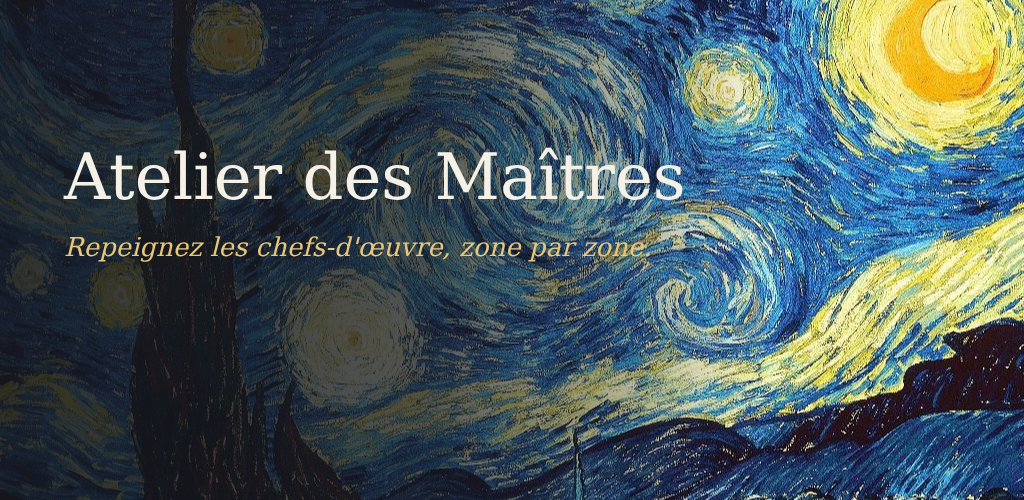
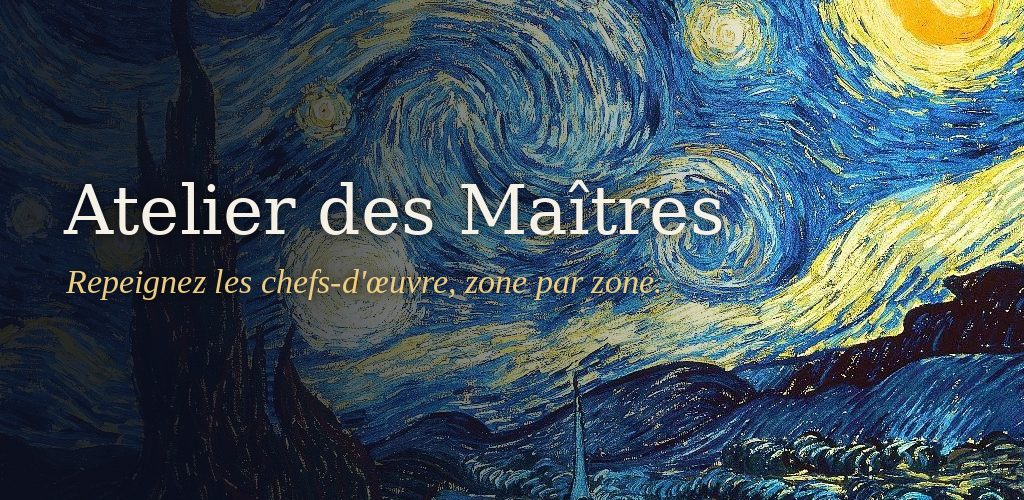
Fiche et confidentialité en anglais, image de présentation lisible, GitHub Pages
Claude-Session: https://claude.ai/code/session_01QxB6E3ConKmdP6yFCeSeQK

diff --git a/docs/audit-publication.md b/docs/audit-publication.md
@@ -35,14 +35,29 @@ Les manques relevaient surtout de la finition : pas de partage de la toile (la f
 3. **Test fermé** : un compte personnel récent doit faire tester l'application par au moins 12 personnes pendant 14 jours avant la production. Pendant ce test, consulter le *rapport de pré-lancement* de la Play Console (Google y lance l'application sur de vrais appareils et signale plantages et défauts d'accessibilité).
 4. **Fichier de désobscurcissement** : à chaque `.aab` déposé, déposer aussi le `mapping.txt` de la même Release.
 5. **Signature** : l'application du Play Store sera re-signée par Google, celle des Releases GitHub par votre clé d'envoi. On ne peut pas passer de l'une à l'autre sans désinstaller (et donc perdre sa progression) : une fois sur le store, orienter les testeurs vers le store uniquement.
+6. **GitHub Pages** : Settings › Pages › *Deploy from a branch*, branche `main`, dossier `/docs`. Les politiques de confidentialité sont alors publiées à `https://loucoumepixel.github.io/atelier-des-maitres/confidentialite.html` et `privacy.html`, les adresses à donner à la Play Console.
+7. **Fiche en anglais** : dans la Play Console, ajouter la traduction anglaise de la fiche avec le texte de [fiche.md](play-store/fiche.md#english) et l'image de présentation anglaise.
 
-## Recommandations suivantes (non faites, à décider)
+## Recommandations mises en œuvre (deuxième passe)
 
-Par ordre d'impact estimé :
+| Recommandation | Fait |
+|---|---|
+| Version anglaise | Tous les textes de l'application sont dans les ressources Android : anglais par défaut, français pour les téléphones en français, langue choisissable par application sous Android 13+. Titres, dates et cartels des toiles traduits. Fiche du store et politique de confidentialité en anglais ([fiche.md](play-store/fiche.md#english), [privacy.md](privacy.md)). |
+| Bibliothèques à jour | Kotlin 2.2.21, Compose BOM 2025.06.01, activity 1.10.1, lifecycle 2.9.1, core-ktx 1.16.0, coroutines 1.10.2 ; validé par le build GitHub. |
+| Profil de démarrage | `profileinstaller` et `baseline-prof.txt` : le code de l'application est compilé à l'installation, y compris pour l'APK des Releases. |
+| Image de présentation | Refaite avec un dégradé sombre et une ombre sous le texte, en français et en anglais. |
+| Confidentialité sur GitHub Pages | Site prêt dans `docs/` ; il ne reste qu'à activer GitHub Pages (voir ci-dessous). |
+| Plus de toiles | **Bloqué ici** : l'environnement de travail n'a pas accès aux musées ni à Wikimedia Commons pour télécharger les reproductions. Voir ci-dessous. |
 
-1. **Version anglaise.** Aujourd'hui tout le texte est en français, écrit directement dans le code. Externaliser les textes et ajouter l'anglais (application et fiche) multiplierait l'audience potentielle ; c'est le plus gros levier de diffusion.
-2. **Plus de toiles.** Sept œuvres, c'est peu face à la concurrence. Le domaine public offre Monet, Vermeer, Klimt, Hokusai (autres vues du Fuji), Seurat, Cézanne… Chaque toile ajoute environ 300 Ko à l'application.
-3. **Mettre à jour les bibliothèques** (Compose de décembre 2024, Kotlin 2.0) : corrections de performance et de stabilité ; à faire sur une branche dédiée, le build GitHub validant la mise à jour.
-4. **Profil de démarrage** (*baseline profile*) : démarrage et défilement plus fluides au premier lancement, mesurables dans Android vitals.
-5. **Image de présentation** : le sous-titre ocre se lit mal sur le ciel tourmenté de la Nuit étoilée ; un bandeau sombre ou un texte plus clair le rendrait lisible en vignette.
-6. **Politique de confidentialité sur GitHub Pages** plutôt que sur la page du dépôt : même contenu, présentation plus propre pour les utilisateurs qui l'ouvrent.
+## Nouvelles toiles proposées
+
+Toutes dans le domaine public, choisies pour leurs aplats lisibles en zones et leur notoriété :
+
+- Claude Monet, *Impression, soleil levant* (1872)
+- Claude Monet, *Les Coquelicots* (1873)
+- Johannes Vermeer, *La Jeune Fille à la perle* (vers 1665)
+- Gustav Klimt, *Le Baiser* (1908)
+- Georges Seurat, *Un dimanche après-midi à l'Île de la Grande Jatte* (1884-1886)
+- Katsushika Hokusai, *Le Fuji rouge* (vers 1831)
+
+Il suffit de déposer les reproductions (JPEG, 1600 px environ sur le grand côté, depuis Wikimedia Commons ou le site du musée) dans le projet : je les intègre au catalogue avec titre, date et cartel en deux langues.

diff --git a/docs/play-store/fiche.md b/docs/play-store/fiche.md
@@ -1,4 +1,8 @@
-# Fiche Play Store (français)
+# Fiche Play Store
+
+Langue par défaut de la fiche : français. Ajouter l'anglais (Présence sur le Play Store › Fiche principale › Gérer les traductions › Anglais (États-Unis), puis Anglais (Royaume-Uni) avec le même texte) : la version anglaise est en bas de ce document.
+
+## Français
 
 ## Nom de l'application (30 caractères max)
 Atelier des Maîtres
@@ -51,10 +55,10 @@ Art et design
 ## Coordonnées
 - Adresse e-mail : **à renseigner (obligatoire, affichée publiquement sur la fiche)** ; une adresse dédiée est préférable à l'adresse personnelle
 - Site web : https://github.com/loucoumepixel/atelier-des-maitres
-- Politique de confidentialité : https://github.com/loucoumepixel/atelier-des-maitres/blob/main/docs/confidentialite.md
+- Politique de confidentialité : https://loucoumepixel.github.io/atelier-des-maitres/confidentialite.html une fois GitHub Pages activé (voir README), sinon https://github.com/loucoumepixel/atelier-des-maitres/blob/main/docs/confidentialite.md
 
 ## Notes de version (1.0)
-Première version : 7 chefs-d'œuvre, 3 niveaux, import de vos propres images.
+Première version : 7 chefs-d'œuvre, 3 niveaux, import de vos propres images, partage de vos toiles. En français et en anglais.
 
 ## Réponses aux questionnaires de la Play Console
 - **Sécurité des données** : l'application ne collecte ni ne partage aucune donnée. Pas de chiffrement en transit à déclarer (aucune donnée transmise).
@@ -63,3 +67,49 @@ Première version : 7 chefs-d'œuvre, 3 niveaux, import de vos propres images.
 - **Classification du contenu** : catégorie « Tous les autres types d'applications » ; aucune violence, sexualité, langage grossier, substance, jeu d'argent ; pas d'interaction entre utilisateurs ; pas de partage de position ; pas d'achats numériques.
 - **Public cible** : 13 ans et plus (un public « enfants » soumet l'application au programme Familles et à des exigences supplémentaires).
 - **Application d'actualités / santé / gouvernementale / financière** : non.
+
+## English
+
+### App name
+Atelier des Maîtres
+
+### Short description (80 characters max)
+Repaint Van Gogh, Hokusai and Munch area by area, with the master's colours.
+
+### Full description
+Pick up the brush of the greatest painters.
+
+Atelier des Maîtres divides painting masterpieces into numbered areas. Choose a colour, tap an area: the canvas comes back to life under your fingers, with the texture and brushstrokes of the original.
+
+THE ARTWORKS
+• The Starry Night, Wheat Field with Cypresses, The Night Café and Cottages and Figure by Vincent van Gogh
+• The Great Wave off Kanagawa by Hokusai
+• The Wreck of a Transport Ship by Turner
+• The Scream by Edvard Munch
+Each canvas comes with a short museum label telling its story.
+
+YOUR PACE
+• Three levels per canvas: Easy, Normal or Expert, up to 700 areas and 32 colours
+• Areas of the selected colour are highlighted
+• One button finds the next area to paint for you
+• Undo, redo, eraser
+• Your progress is saved automatically
+
+YOUR STYLE
+• Long press an area to choose any colour: respect the master or reinvent him
+• Hold the eye to compare your work with the original
+• Share your finished canvas with friends and family
+
+YOUR IMAGES
+Import a photo or an artwork from your phone: it is divided into areas in a second, right on the device.
+
+No ads, no account, no Internet connection. Nothing leaves your phone.
+
+### Release notes (1.0)
+First version: 7 masterpieces, 3 levels, import your own images, share your canvases. In English and French.
+
+### Privacy policy
+https://loucoumepixel.github.io/atelier-des-maitres/privacy.html (or https://github.com/loucoumepixel/atelier-des-maitres/blob/main/docs/privacy.md)
+
+### Feature graphic
+[feature-graphic-en-1024x500.png](feature-graphic-en-1024x500.png). Screenshots for the English listing: same plan as above, with the phone set to English.

diff --git a/README.md b/README.md
@@ -13,11 +13,14 @@ Application Android (Kotlin, Jetpack Compose) pour repeindre des chefs-d'œuvre 
 - **Choisir sa couleur** : un appui long sur une zone ouvre le nuancier (couleur du maître, palette de la toile, ou n'importe quelle couleur via teinte, saturation et luminosité). On peut aussi peindre librement.
 - **La matière du tableau** : une zone peinte reprend les coups de pinceau de l'original, modulés sous la couleur posée.
 - Zoom à deux doigts, déplacement, numéros toujours nets qui apparaissent quand on s'approche, bouton « trouver une zone », annuler / rétablir, gomme, œil à maintenir pour comparer avec l'original, sauvegarde automatique, écran de fin avec l'histoire de l'œuvre.
+- **En anglais et en français**, selon la langue du téléphone (ou celle choisie pour l'application dans les paramètres d'Android 13+).
 - **Partager sa toile** (menu ⋮ ou écran de fin) : l'image peinte, encadrée d'une marge de papier, part vers n'importe quelle application.
 
 ## Publier sur le Play Store
 
-Tout est préparé dans [docs/play-store](docs/play-store/README.md).
+Tout est préparé dans [docs/play-store](docs/play-store/README.md), et l'[audit de publication](docs/audit-publication.md) liste ce qui reste à faire.
+
+Les politiques de confidentialité ([français](docs/confidentialite.md), [anglais](docs/privacy.md)) deviennent des pages web en activant GitHub Pages une fois : *Settings › Pages › Build and deployment › Deploy from a branch*, branche `main`, dossier `/docs`. Elles sont alors à l'adresse `https://loucoumepixel.github.io/atelier-des-maitres/confidentialite.html` (et `privacy.html`).
 
 ## Installer l'application
 

diff --git a/docs/play-store/README.md b/docs/play-store/README.md
@@ -3,10 +3,10 @@
 ## Déjà prêt dans le dépôt
 - Application conforme aux exigences actuelles : Android 16 (API 36) ciblé, identifiant définitif `io.github.loucoumepixel.atelierdesmaitres`, numéro de version qui augmente à chaque build.
 - Bundle `.aab` (le format exigé par la Play Console) produit à chaque build et joint à chaque Release GitHub.
-- Fiche du store en français et réponses aux questionnaires : [fiche.md](fiche.md).
+- Fiche du store en français et en anglais, réponses aux questionnaires : [fiche.md](fiche.md).
 - Politique de confidentialité : [../confidentialite.md](../confidentialite.md) (lien public à coller dans la Play Console).
 - Audit de publication et points restant à faire : [../audit-publication.md](../audit-publication.md).
-- Icône 512 × 512 : [icone-512.png](icone-512.png) ; image de présentation 1024 × 500 : [image-presentation-1024x500.png](image-presentation-1024x500.png).
+- Icône 512 × 512 : [icone-512.png](icone-512.png) ; image de présentation 1024 × 500 en français : [image-presentation-1024x500.png](image-presentation-1024x500.png), en anglais : [feature-graphic-en-1024x500.png](feature-graphic-en-1024x500.png).
 
 ## La clé d'envoi
 La Play Console exige que le `.aab` soit signé avec une clé d'envoi, toujours la même pour toutes les mises à jour. Google garde ensuite la vraie clé de l'application (« signature d'application Play »), donc une clé d'envoi perdue peut être réinitialisée auprès de Google.

diff --git a/docs/privacy.md b/docs/privacy.md
@@ -1,0 +1,19 @@
+# Privacy policy — Atelier des Maîtres
+
+*Last updated: 18 October 2026*
+
+Atelier des Maîtres is a paint-by-numbers app. It runs entirely on your phone.
+
+**No personal data is collected.** The app has no account, shows no ads, contains no analytics and sends nothing over the Internet. It does not even request permission to access the Internet.
+
+**Imported images.** When you import an image, Android lets you pick it in the system photo picker: the app only receives the image you chose, never access to your gallery. A reduced copy is kept in the app's private storage so you can paint it. It is never transmitted.
+
+**Sharing.** The "Share the canvas" button opens Android's share menu with the image of your canvas. You choose the receiving app yourself; Atelier des Maîtres transmits nothing on its own.
+
+**Progress.** Your canvases in progress are stored only on your phone. They may be included in your device's Android backup if you have enabled it, according to your Google account settings.
+
+**Deletion.** Removing an imported image (from its card in the gallery) deletes its copy and its progress. Uninstalling the app erases all its data.
+
+**Contact.** For any question, open an issue at https://github.com/loucoumepixel/atelier-des-maitres/issues
+
+*Version française : [confidentialite.md](confidentialite.md)*

diff --git a/docs/confidentialite.md b/docs/confidentialite.md
@@ -12,6 +12,8 @@ Atelier des Maîtres est une application de peinture par zones. Elle fonctionne 
 
 **Progression.** Vos toiles en cours sont enregistrées uniquement sur votre téléphone. Elles peuvent être incluses dans la sauvegarde Android de votre appareil si vous l'avez activée, selon les réglages de votre compte Google.
 
-**Suppression.** Retirer une image importée (appui long dans la galerie) supprime sa copie et sa progression. Désinstaller l'application efface toutes ses données.
+**Suppression.** Retirer une image importée (depuis sa fiche dans la galerie) supprime sa copie et sa progression. Désinstaller l'application efface toutes ses données.
 
 **Contact.** Pour toute question : ouvrez un ticket sur https://github.com/loucoumepixel/atelier-des-maitres/issues
+
+*English version: [privacy.md](privacy.md)*
